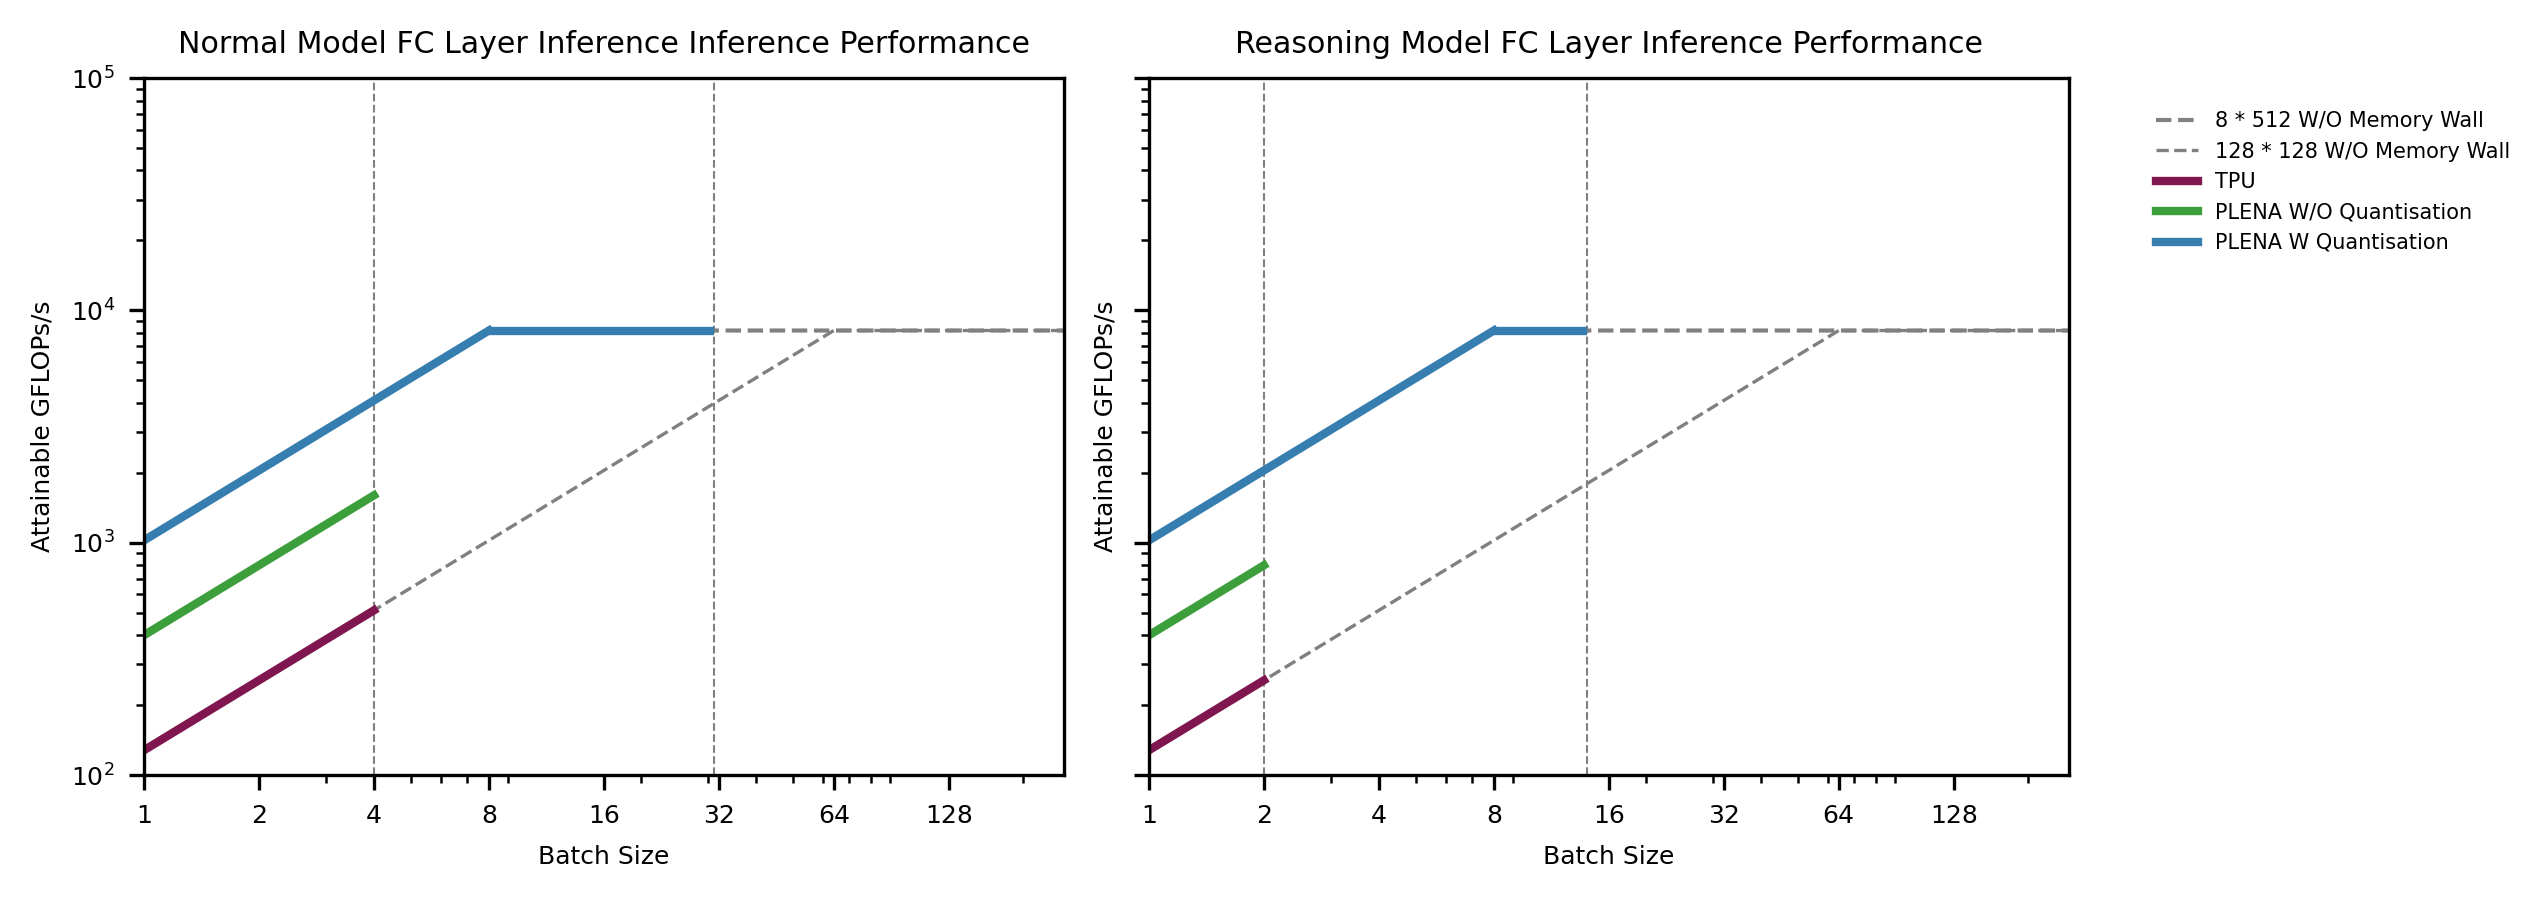
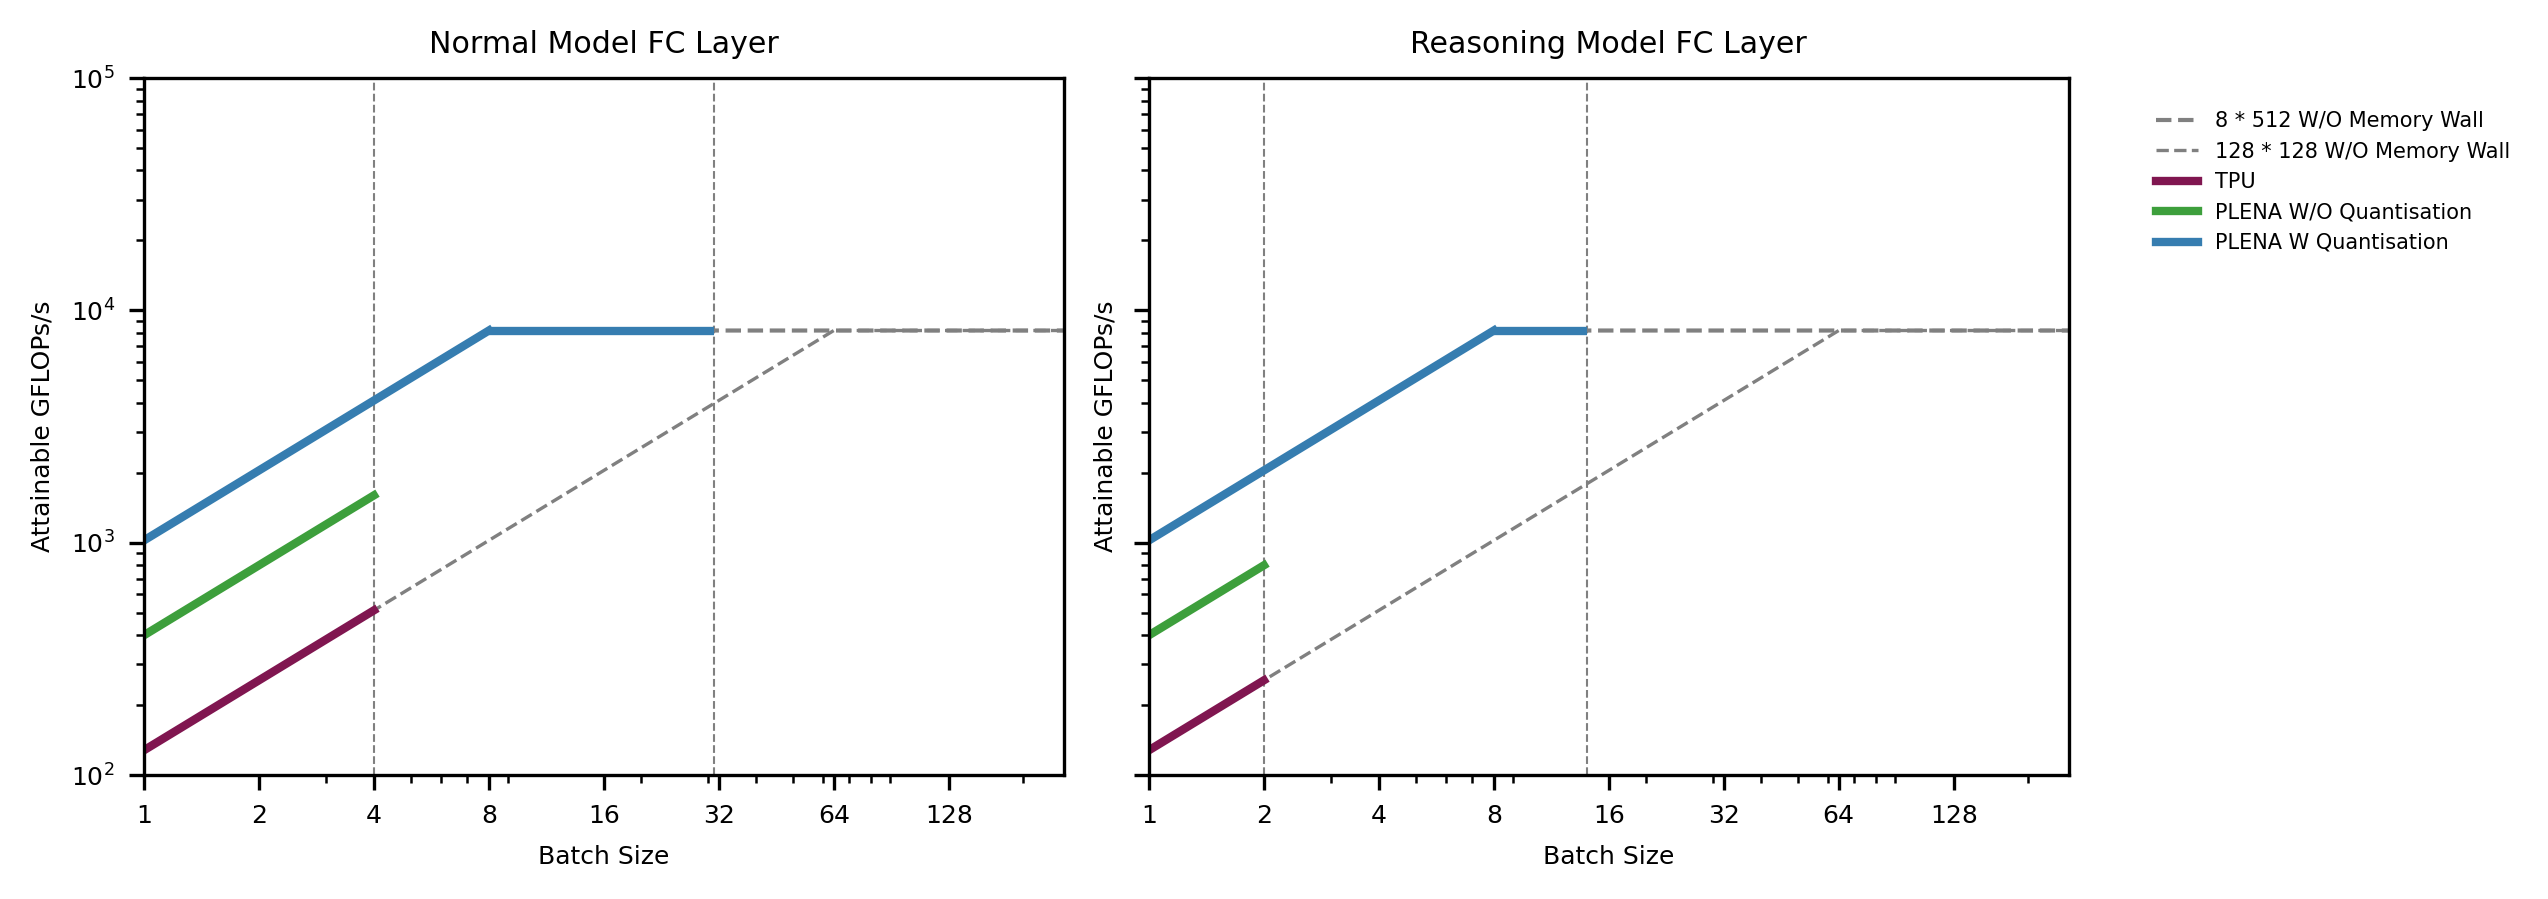
1 GHz Met with compiler ultra

Changed region(s): [[0.062, 0.0311, 0.4031, 0.0623], [0.4651, 0.0311, 0.7751, 0.0623]]

diff --git a/tools/roofline_model/fc_plot.py b/tools/roofline_model/fc_plot.py
@@ -140,7 +140,7 @@ if __name__ == "__main__":
     print(f"Config parent path: {config_parent_path}")
     model_config_path   = os.path.join(config_parent_path, "doc/Model_Lib/llama-3.1-70b.json")
     model_config        = load_json(model_config_path)
-    fig, (ax1, ax2) = plt.subplots(1, 2, figsize=(7, 3), sharey=True)
+    fig, (ax1, ax2) = plt.subplots(1, 2, figsize=(3, 2), sharey=True)
     tick_positions = [1, 2, 4, 8, 16, 32, 64, 128]
 
     # Plot TPU Performance
@@ -163,16 +163,19 @@ if __name__ == "__main__":
     ax1.set_xlabel('Batch Size')
     ax1.set_xticks(tick_positions)
     ax1.set_xticklabels([str(t) for t in tick_positions])
+    ax1.set_yticks([1e2, 1e3, 1e4, 1e5])
+    ax1.set_yticklabels(['$10^2$', '$10^3$', '$10^4$', '$10^5$'])
+    ax1.minorticks_off()
     ax1.set_ylim(1e2, 1e5)
     ax1.set_xlim(1, 256)
-    ax1.set_title('Normal Model FC Layer')
+    ax1.set_title('Normal Model')
     
-    ax1.plot(list(plena_roofline_performance.keys()), list(plena_roofline_performance.values()), label='8 * 512 W/O Memory Wall', color="grey", linewidth=1, linestyle='--')
+    ax1.plot(list(plena_roofline_performance.keys()), list(plena_roofline_performance.values()), label='PLENA W/O Memory Wall', color="grey", linewidth=1, linestyle='--')
     ax1.vlines(tpu_normal_batch_bound, 1e2, 1e5, color='grey', linestyle='--', linewidth=0.5)
     ax1.plot(
         list(tpu_roofline_performance.keys()),
         [v for v in tpu_roofline_performance.values()],
-        label='128 * 128 W/O Memory Wall',
+        label='TPU W/O Memory Wall',
         linewidth=0.8, linestyle='--',
         color='grey'
     )
@@ -255,29 +258,37 @@ if __name__ == "__main__":
 
     ax2.hlines(max(soft_optimised_actual_performance_reasoning.values()), max(soft_optimised_actual_performance_reasoning.keys()), soft_optimised_reasoning_batch_bound, color=colors["dark_blue"], linewidth=2)
 
+    # ---- LEGEND ----
+    from math import ceil
     from collections import OrderedDict
 
-    # Get handles and labels from both axes
-    handles1, labels1 = ax1.get_legend_handles_labels()
-    handles2, labels2 = ax2.get_legend_handles_labels()
-
-    # Combine all handles and labels
-    all_handles = handles1 + handles2
-    all_labels = labels1 + labels2
-
-    # Remove duplicates while preserving order
+    handles, labels = ax1.get_legend_handles_labels()
     legend_dict = OrderedDict()
-    for h, l in zip(all_handles, all_labels):
+    for h, l in zip(handles, labels):
         if l not in legend_dict:
             legend_dict[l] = h
+    print("Legend Dictionary:", legend_dict)# --- Custom legend order, TPU-related last ---
+    custom_order = [
+        'PLENA W/O Memory Wall',
+        'PLENA W/O Quantisation',
+        'PLENA W Quantisation',
+        'TPU W/O Memory Wall',
+        'TPU'
+    ]
 
+    # Reconstruct handles/labels in the order you want
+    custom_handles = [legend_dict[label] for label in custom_order if label in legend_dict]
+    custom_labels  = [label for label in custom_order if label in legend_dict]
 
-    fig.legend(legend_dict.values(), legend_dict.keys(),
-            loc='center left',
-            bbox_to_anchor=(1.02, 0.8),  # Push to the right of both axes
-            fontsize=5, frameon=False)
+    ncol = ceil(len(custom_labels) / 2)  # Two rows
 
-    # Adjust space so plots don't overlap with the legend
-    fig.subplots_adjust(right=0.75)  # Leave space for legend
+    fig.legend(
+        custom_handles, custom_labels,
+        loc='lower center',
+        bbox_to_anchor=(0.5, -0.1),  # Adjust for spacing
+        fontsize=5, frameon=False,
+        ncol=ncol
+    )
+    fig.subplots_adjust(bottom=0.28)
     plt.tight_layout()
-    plt.savefig('fc_sa_comparison.png', bbox_inches='tight', dpi=300)
+    plt.savefig('fc_sa_comparison_1x4.png', bbox_inches='tight', dpi=300)
